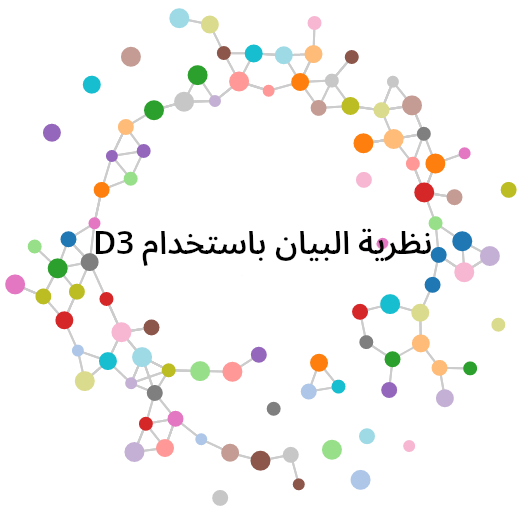
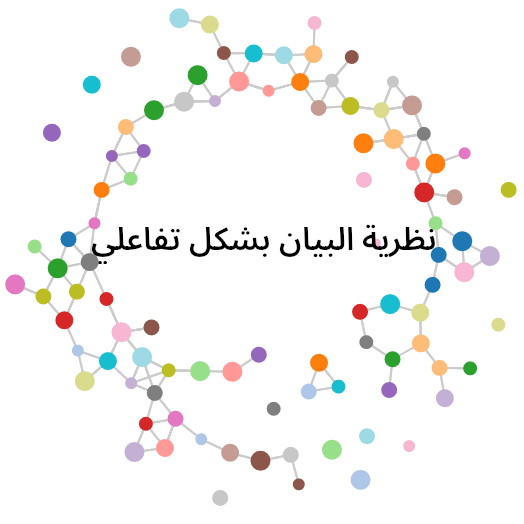
renaming project

Changed region(s): [[0.1527, 0.4275, 0.8244, 0.5191]]

diff --git a/index.html b/index.html
@@ -14,7 +14,7 @@
     <meta name="twitter:card" content="summary_large_image" />
     <meta
       name="twitter:title"
-      content="نظرية البيان باستخدام D3 - دروس تفاعلية في نظرية البيان"
+      content="نظرية البيان بشكل تفاعلي"
     />
     <meta name="twitter:image" content="https://d3gt-ar.com/img/banner.png" />
     <meta
@@ -25,7 +25,7 @@
     <meta property="og:type" content="website" />
     <meta
       property="og:title"
-      content="نظرية البيان باستخدام D3 - دروس تفاعلية في نظرية البيان"
+      content="نظرية البيان بشكل تفاعلي"
     />
     <meta
       property="og:description"
@@ -34,7 +34,7 @@
     <meta property="og:url" content="https://d3gt-ar.com/" />
     <meta property="og:image" content="https://d3gt-ar.com/img/banner.png" />
 
-    <title>نظرية البيان باستخدام D3 - دروس تفاعلية في نظرية البيان</title>
+    <title>نظرية البيان بشكل تفاعلي</title>
 
     <link rel="icon" href="favicon.ico" type="image/x-icon" />
 
@@ -71,7 +71,7 @@
       class="navbar navbar-default navbar-fixed-top transparent"
     >
       <div class="container">
-        <a class="navbar-brand" href="index.html">نظرية البيان باستخدام D3</a>
+        <a class="navbar-brand" href="index.html">نظرية البيان بشكل تفاعلي</a>
         <ul class="nav navbar-nav">
           <li><a href="#about">حول</a></li>
           <li><a href="#faq">الأسئلة الشائعة</a></li>
@@ -91,8 +91,8 @@
 
         <div id="intro-container">
           <div id="intro">
-            <span id="intro-title">نظرية البيان باستخدام D3</span><br />
-            <span id="intro-tagline">تعلم نظرية البيان بشكل تفاعلي.</span
+            <span id="intro-title">نظرية البيان بشكل تفاعلي</span><br />
+            <span id="intro-tagline">دروس ونماذج مرئية في نظرية البيان.</span
             ><br /><br /><br />
             <span id="intro-button"><a href="unit.html">ابدأ</a></span>
           </div>
@@ -142,7 +142,7 @@
               <div class="quote-cite">&mdash; مترجم من ويكيبيديا</div>
             </div>
             <p>
-              نظرية البيان باستخدام D3 هو مشروع موجه لأي شخص يريد تعلم نظرية البيان.
+              نظرية البيان بشكل تفاعلي هو مشروع موجه لأي شخص يريد تعلم نظرية البيان.
               يقدم مقدمة سريعة وتفاعلية للموضوع.
               الرسوم المستخدمة في المشروع تجعله أداة تعليمية فعالة.
             </p>
@@ -453,7 +453,7 @@
         <div class="container">
           <div class="row rtl-flex-container" style="justify-content: center">
             <div class="col-md-8">
-              <span class="logo"><a href="index.html">نظرية البيان باستخدام D3</a></span>
+              <span class="logo"><a href="index.html">نظرية البيان</a></span>
               <span class="copyright">
                 الحقوق محفوظة: أفيناش باندي (2017-18) , ليث رستناوي (2025)
               </span>

diff --git a/unit.html b/unit.html
@@ -14,7 +14,7 @@
     <meta name="twitter:card" content="summary_large_image" />
     <meta
       name="twitter:title"
-      content="نظرية البيان باستخدام D3 - دروس تفاعلية في نظرية البيان"
+      content="نظرية البيان بشكل تفاعلي"
     />
     <meta name="twitter:image" content="https://d3gt-ar.com/img/banner.png" />
     <meta
@@ -25,7 +25,7 @@
     <meta property="og:type" content="website" />
     <meta
       property="og:title"
-      content="نظرية البيان باستخدام D3 - دروس تفاعلية في نظرية البيان"
+      content="نظرية البيان بشكل تفاعلي"
     />
     <meta
       property="og:description"
@@ -34,7 +34,7 @@
     <meta property="og:url" content="https://d3gt-ar.com/" />
     <meta property="og:image" content="https://d3gt-ar.com/img/banner.png" />
 
-    <title>نظرية البيان باستخدام D3 - دروس تفاعلية في نظرية البيان</title>
+    <title>نظرية البيان بشكل تفاعلي - دروس تفاعلية في نظرية البيان</title>
 
     <link rel="icon" href="favicon.ico" type="image/x-icon" />
 
@@ -73,7 +73,7 @@
     <!-- Navigation -->
     <nav class="navbar navbar-default navbar-static-top">
       <div class="container">
-        <a class="navbar-brand" href="index.html">نظرية البيان باستخدام D3</a>
+        <a class="navbar-brand" href="index.html">نظرية البيان بشكل تفاعلي</a>
         <ul class="nav navbar-nav">
           <li id="map-open" style="background-color: #bfe;">
             <a href="javascript:void(0)">المحتويات</a>
@@ -139,7 +139,7 @@
         <div class="container">
           <div class="row rtl-flex-container" style="justify-content: center">
             <div class="col-md-4">
-              <span class="logo"><a href="index.html">نظرية البيان باستخدام D3</a></span>
+              <span class="logo"><a href="index.html">نظرية البيان بشكل تفاعلي</a></span>
             </div>
             <div class="col-md-4 text-center">
               <span

diff --git a/js/control.js b/js/control.js
@@ -118,7 +118,7 @@ function resizeContent() {
 function loadContent(query) {
   var currentChap = contentData[query];
 
-  document.title = currentChap["content-title"] + " - نظرية البيان باستخدام D3";
+  document.title = currentChap["content-title"] + " - نظرية البيان بشكل تفاعلي";
 
   //initially: status -> not hidden; app, footer -> hidden
   $("#status-container").toggleClass("hidden");

diff --git a/CONTRIBUTING.md b/CONTRIBUTING.md
@@ -14,7 +14,7 @@
 
 ## كيفية المساهمة
 
-أولاً، اطلع على [WORKING.md](https://github.com/LaisRast/d3gt-ar/blob/master/WORKING.md) لتعرف كيف يعمل مستودع نظرية البيان باستخدام D3 (إنه بسيط جدًا في الواقع).
+أولاً، اطلع على [WORKING.md](https://github.com/LaisRast/d3gt-ar/blob/master/WORKING.md) لتعرف كيف يعمل مستودع نظرية البيان بشكل تفاعلي (إنه بسيط جدًا في الواقع).
 الآن، إليك بعض الطرق التي يمكنك من خلالها المساهمة في هذا المشروع.
 
 **ملاحظة:** عند إنشاء مشكلة جديدة، يرجى التأكد من أن المشكلة غير موجودة بالفعل في قائمة المشاكل.
@@ -44,6 +44,6 @@
 ## اتفاقية المساهم
 
 بالمساهمة، فإنك توافق على أننا قد نعيد توزيع عملك بموجب [الترخيص](https://github.com/LaisRast/d3gt-ar/blob/master/LICENSE) الخاص بنا.
-يوافق الجميع المشاركين في نظرية البيان باستخدام D3 على الالتزام بـ[ميثاق مدونة قواعد سلوك المساهمين](https://github.com/LaisRast/d3gt-ar/blob/master/CODE_OF_CONDUCT.md) الخاصة بنا.
+يوافق الجميع المشاركين في نظرية البيان بشكل تفاعلي على الالتزام بـ[ميثاق مدونة قواعد سلوك المساهمين](https://github.com/LaisRast/d3gt-ar/blob/master/CODE_OF_CONDUCT.md) الخاصة بنا.
 
 </div>

diff --git a/WORKING.md b/WORKING.md
@@ -1,11 +1,11 @@
 <div dir="rtl">
 
-# كيف يعمل مستودع نظرية البيان باستخدام D3
+# كيف يعمل مستودع نظرية البيان بشكل تفاعلي
 
-توضح هذه الوثيقة هيكل وعمل مستودع نظرية البيان باستخدام D3.
+توضح هذه الوثيقة هيكل وعمل مستودع نظرية البيان بشكل تفاعلي.
 تعمل كمنطلق لأولئك الذين يتطلعون للمساهمة في المستودع.
 
-نظرية البيان باستخدام D3 هي موقع ويب بسيط جدًا يعمل على جانب العميل.
+نظرية البيان بشكل تفاعلي هي موقع ويب بسيط جدًا يعمل على جانب العميل.
 يتم شرح عمل مكوناته الرئيسية أدناه.
 
 ### 1. unit.html
@@ -23,7 +23,7 @@
 
 ### 3. ch/
 
-يتم تقسيم محتوى نظرية البيان باستخدام D3 إلى عدة *وحدات* (أو فصول).
+يتم تقسيم محتوى نظرية البيان بشكل تفاعلي إلى عدة *وحدات* (أو فصول).
 يحتوي دليل `ch/` على النماذج المرئية لكل وحدة.
 يحتوي الدليل `ch/unit-name/` على النماذج المرئية للوحدة، والذي يحتوي بدوره على الملفين التاليين:
 

diff --git a/README.md b/README.md
@@ -3,13 +3,12 @@
   <img src="img/banner.png" style="max-width:100%;">
 </p>
 
-# نظرية البيان باستخدام D3
+# نظرية البيان بشكل تفاعلي
 
 يمكنك زيارة الموقع من هنا:
 https://d3gt-ar.com
 
-نظرية البيان باستخدام
-D3
+نظرية البيان بشكل تفاعلي
 هو منصة تعليمية تفاعلية تهدف إلى تقديم المفاهيم الأساسية لنظرية البيان باللغة العربية.
 من خلال نماذج مرئية جذابة وشرح مبسط،
 توفر المنصة تجربة تعليمية شاملة للطلاب والمعلمين والمهتمين باستكشاف نظرية البيان.
